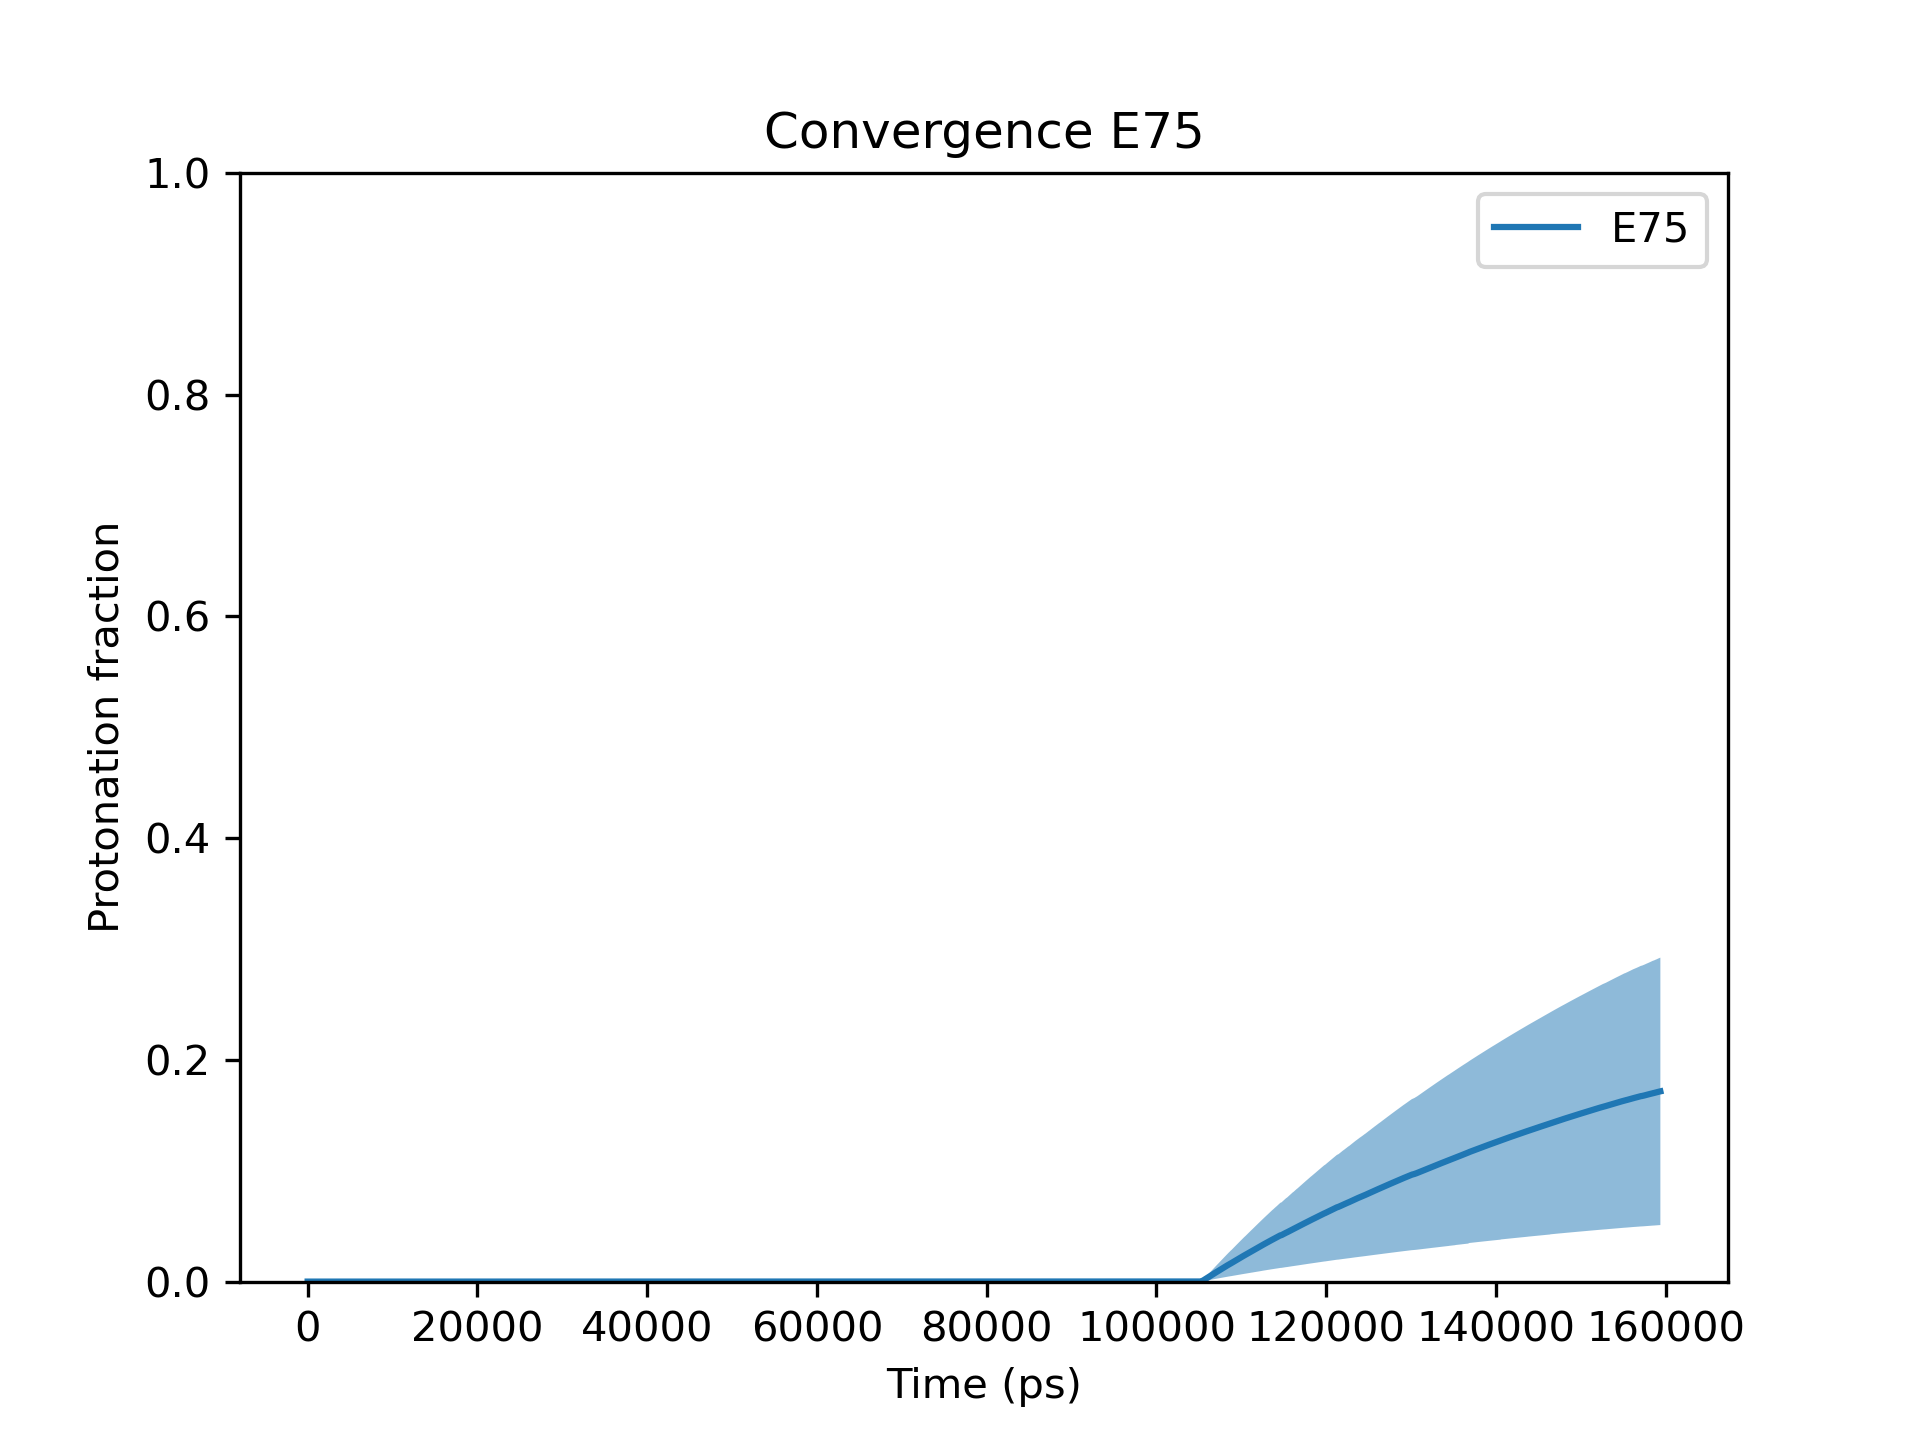
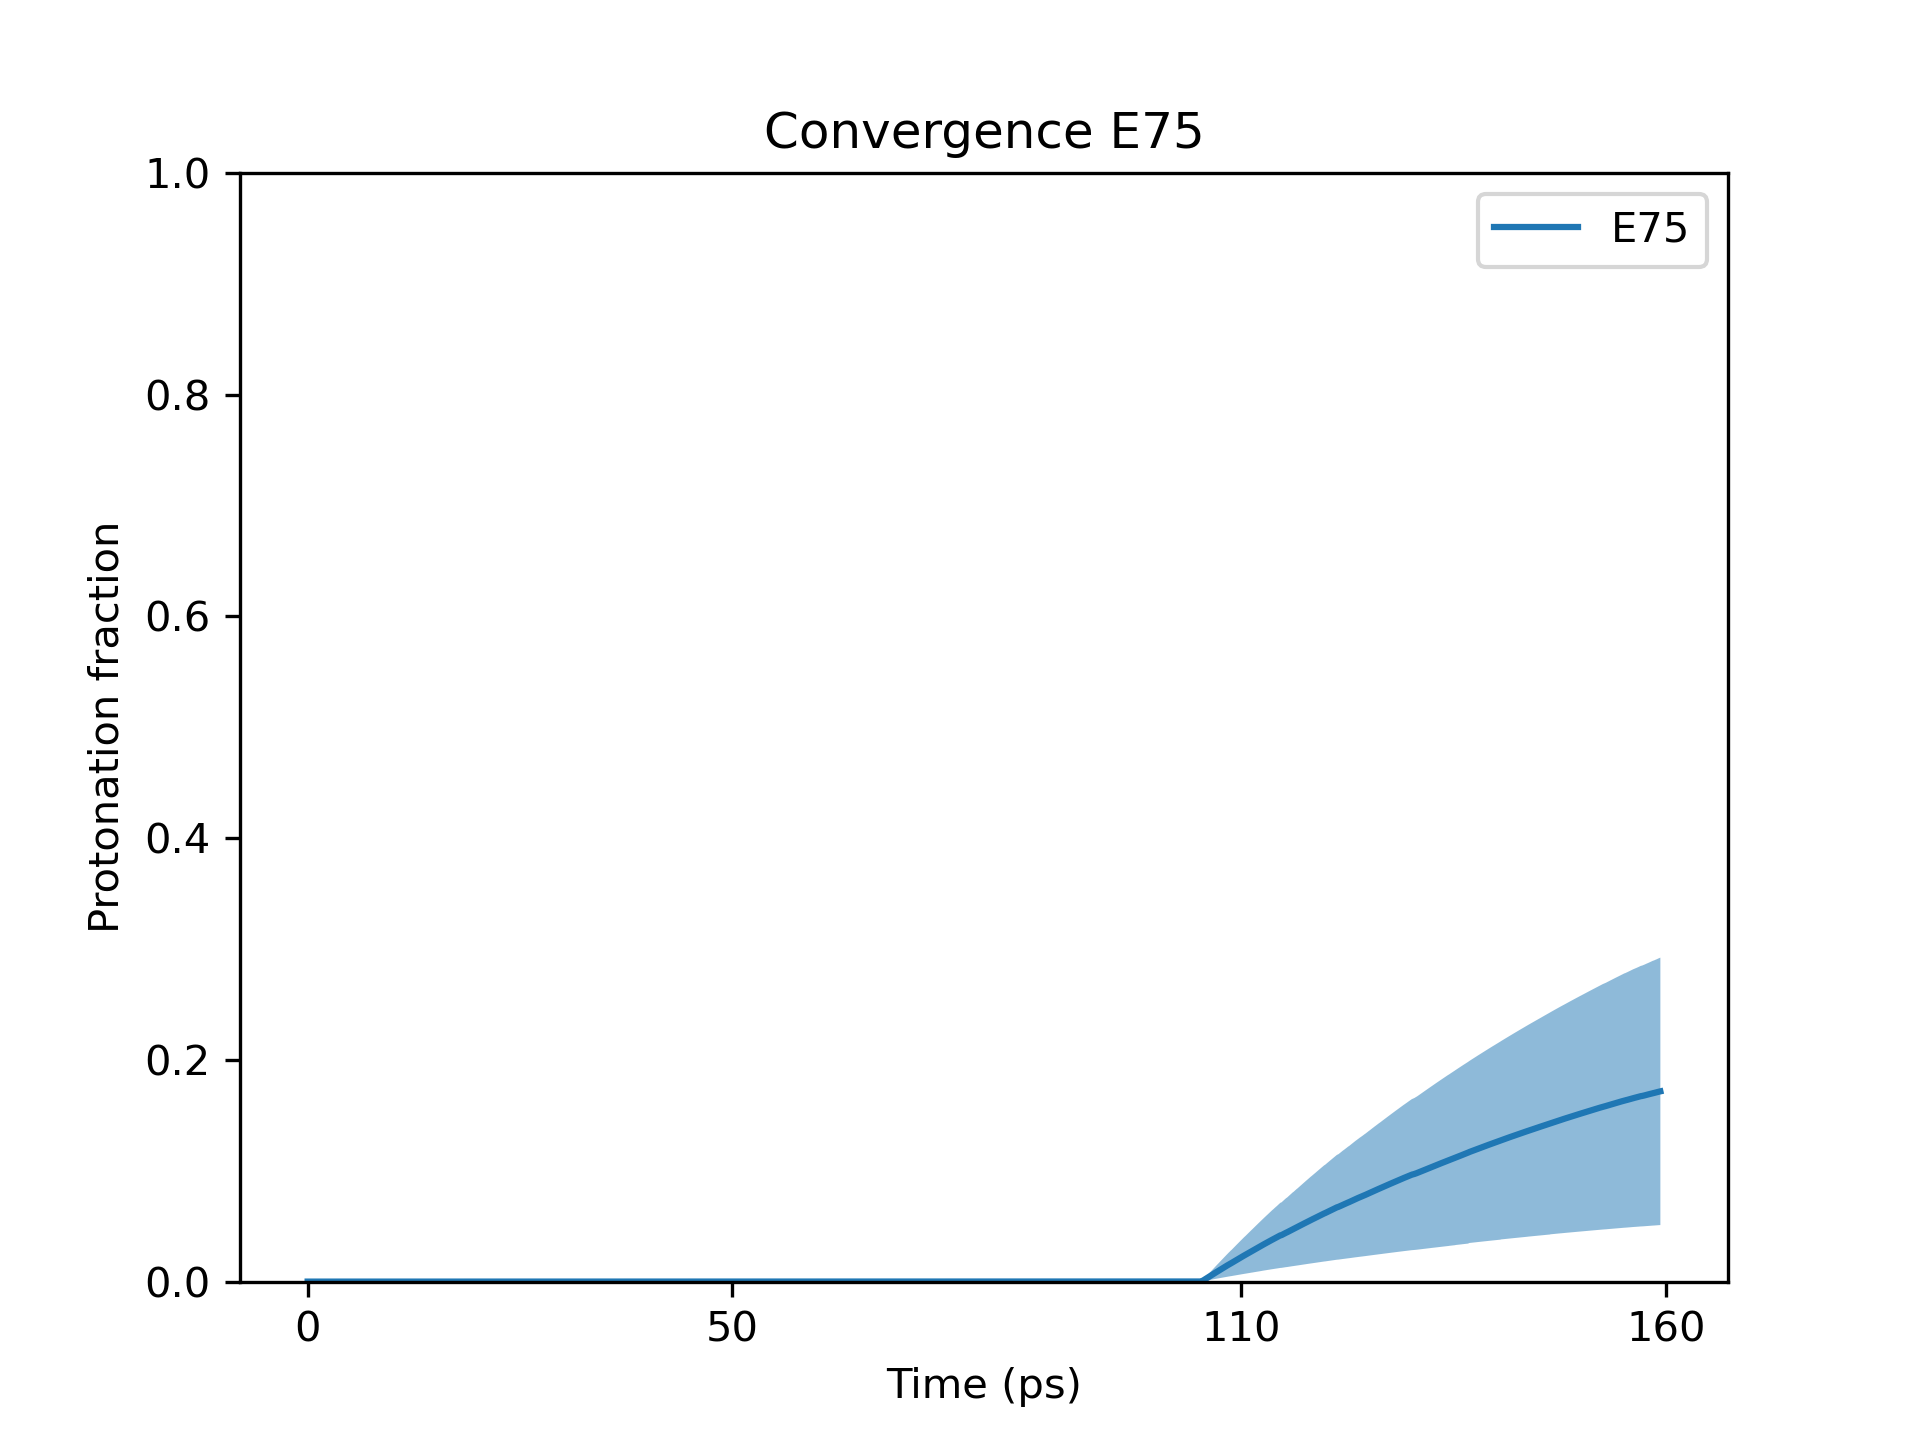
Converted single_residue_convergence plot xticks from ps to ns

Changed region(s): [[0.3125, 0.9062, 0.9062, 0.9375], [0.2188, 0.9062, 0.2812, 0.9375]]

diff --git a/plot.py b/plot.py
@@ -381,10 +381,11 @@ def plot_protonation_fraction(xvg_data_list: List[XVGData], lambda_ref,
     return fig
 
 
-def single_residue_convergence(coordid, xvg_data_list: List[XVGData], lambda_ref, chain_mapping={}, single_letter=True):
+def single_residue_convergence(coordid, xvg_data_list: List[XVGData],time, lambda_ref, chain_mapping={}, single_letter=True):
     """THIS WORKS ONLY FOR NON HISTIDINES! Plot convergence of single residue. Just two replicas supported - add res_fracX if more."""
 
     res_fractions = []
+
 
     display_name = _display_resname(
         lambda_ref.iloc[coordid-1]["resname"], single_letter)
@@ -406,9 +407,15 @@ def single_residue_convergence(coordid, xvg_data_list: List[XVGData], lambda_ref
     plt.fill_between(np.arange(len(total_protarray[0, :])), np.mean(
         total_protarray, axis=0) - total_protonse, np.mean(total_protarray, axis=0) + total_protonse, alpha=0.5)
 
+    length = round(time/10000)*10000
+    xticks = np.arange(0, length, length/3)
+    xticks = np.round(xticks/10000)*10000
+    xticks = np.concatenate((xticks, [length]))
+ 
+    plt.xticks(xticks.astype(int), (xticks/1000).astype(int))
     plt.ylim(0, 1)
     plt.ylabel("Protonation fraction")
-    plt.xlabel("Time (ps)")
+    plt.xlabel("Time (ns)")
     plt.legend()
     title = f"Convergence {display_name}{display_id}"
     plt.title(title)

diff --git a/run_analysis.py b/run_analysis.py
@@ -158,7 +158,7 @@ def main(args):
         for res_id in RES_IDS:
             res_coord = resid2coordid(res_id, lambda_ref)
             res_conv = single_residue_convergence(
-                res_coord, xvg_data_list, lambda_ref, chain_mapping=mapping, single_letter=SINGLE_LETTER)
+                res_coord, xvg_data_list, min_time, lambda_ref, chain_mapping=mapping, single_letter=SINGLE_LETTER)
             res_conv.savefig(os.path.join(
                 OUTPUT_DIR_PLOT, f"Res_{res_id}.png"), dpi=300)
             res_conv.close()